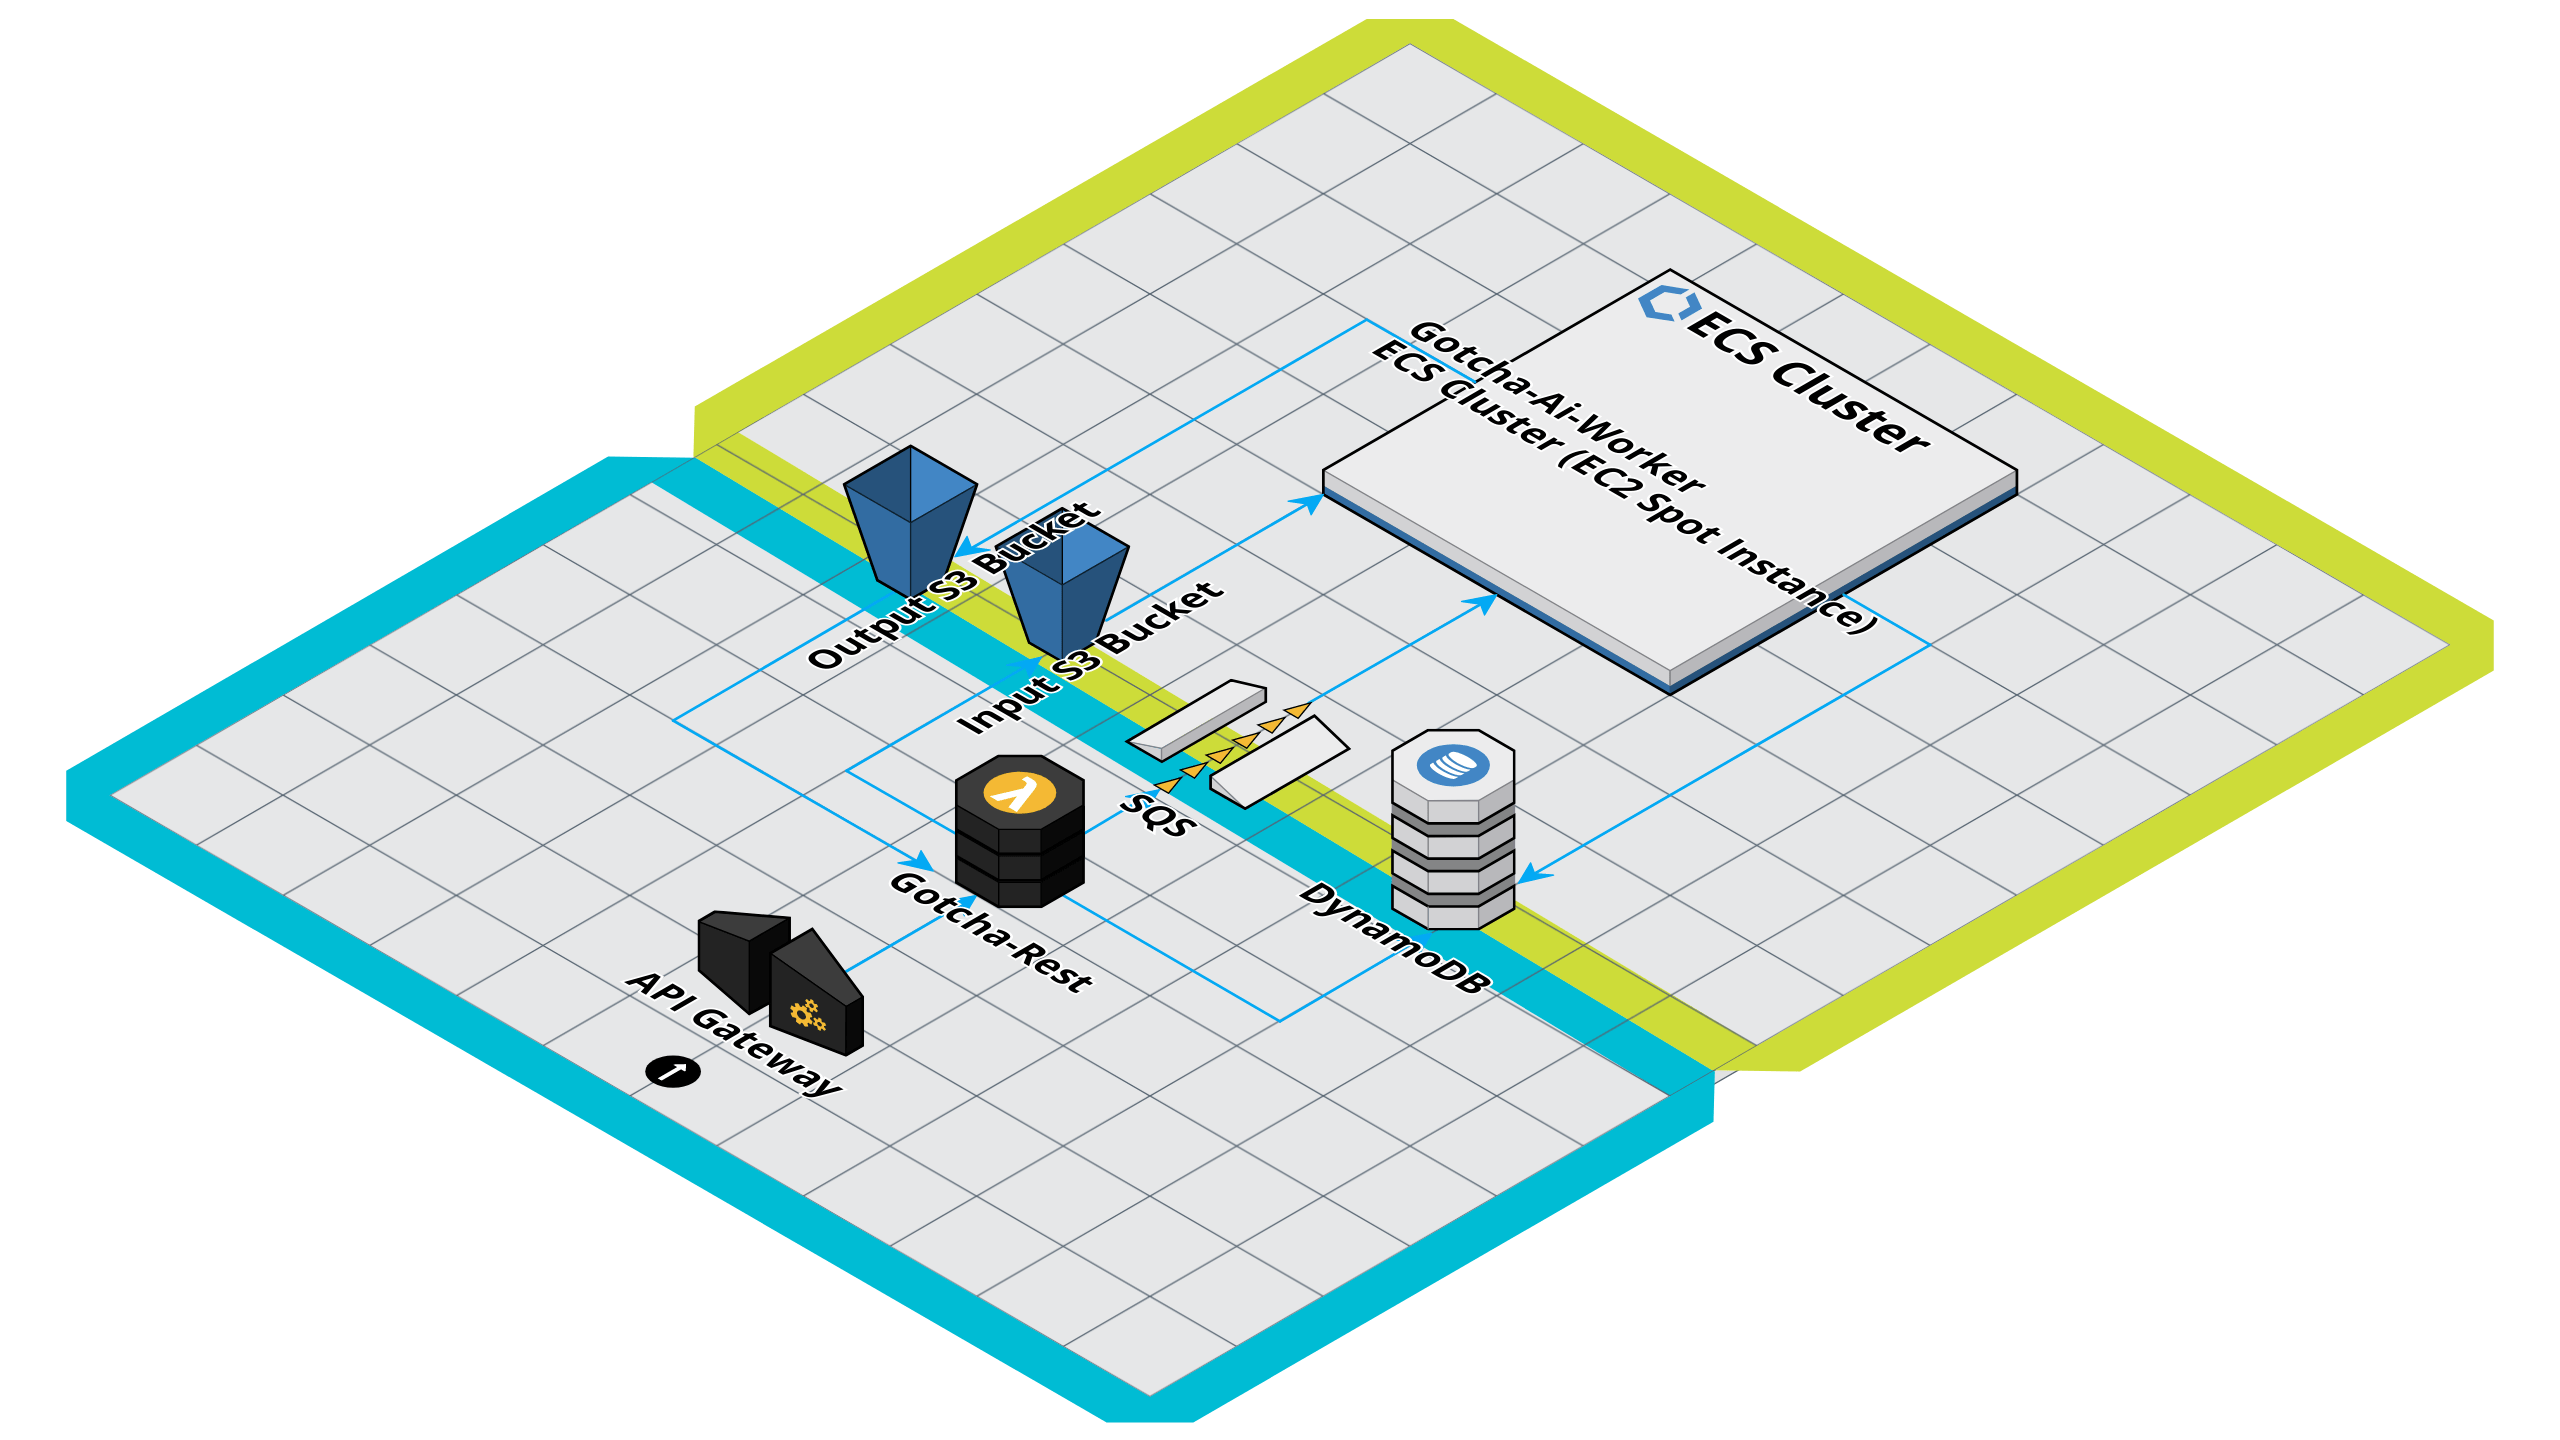
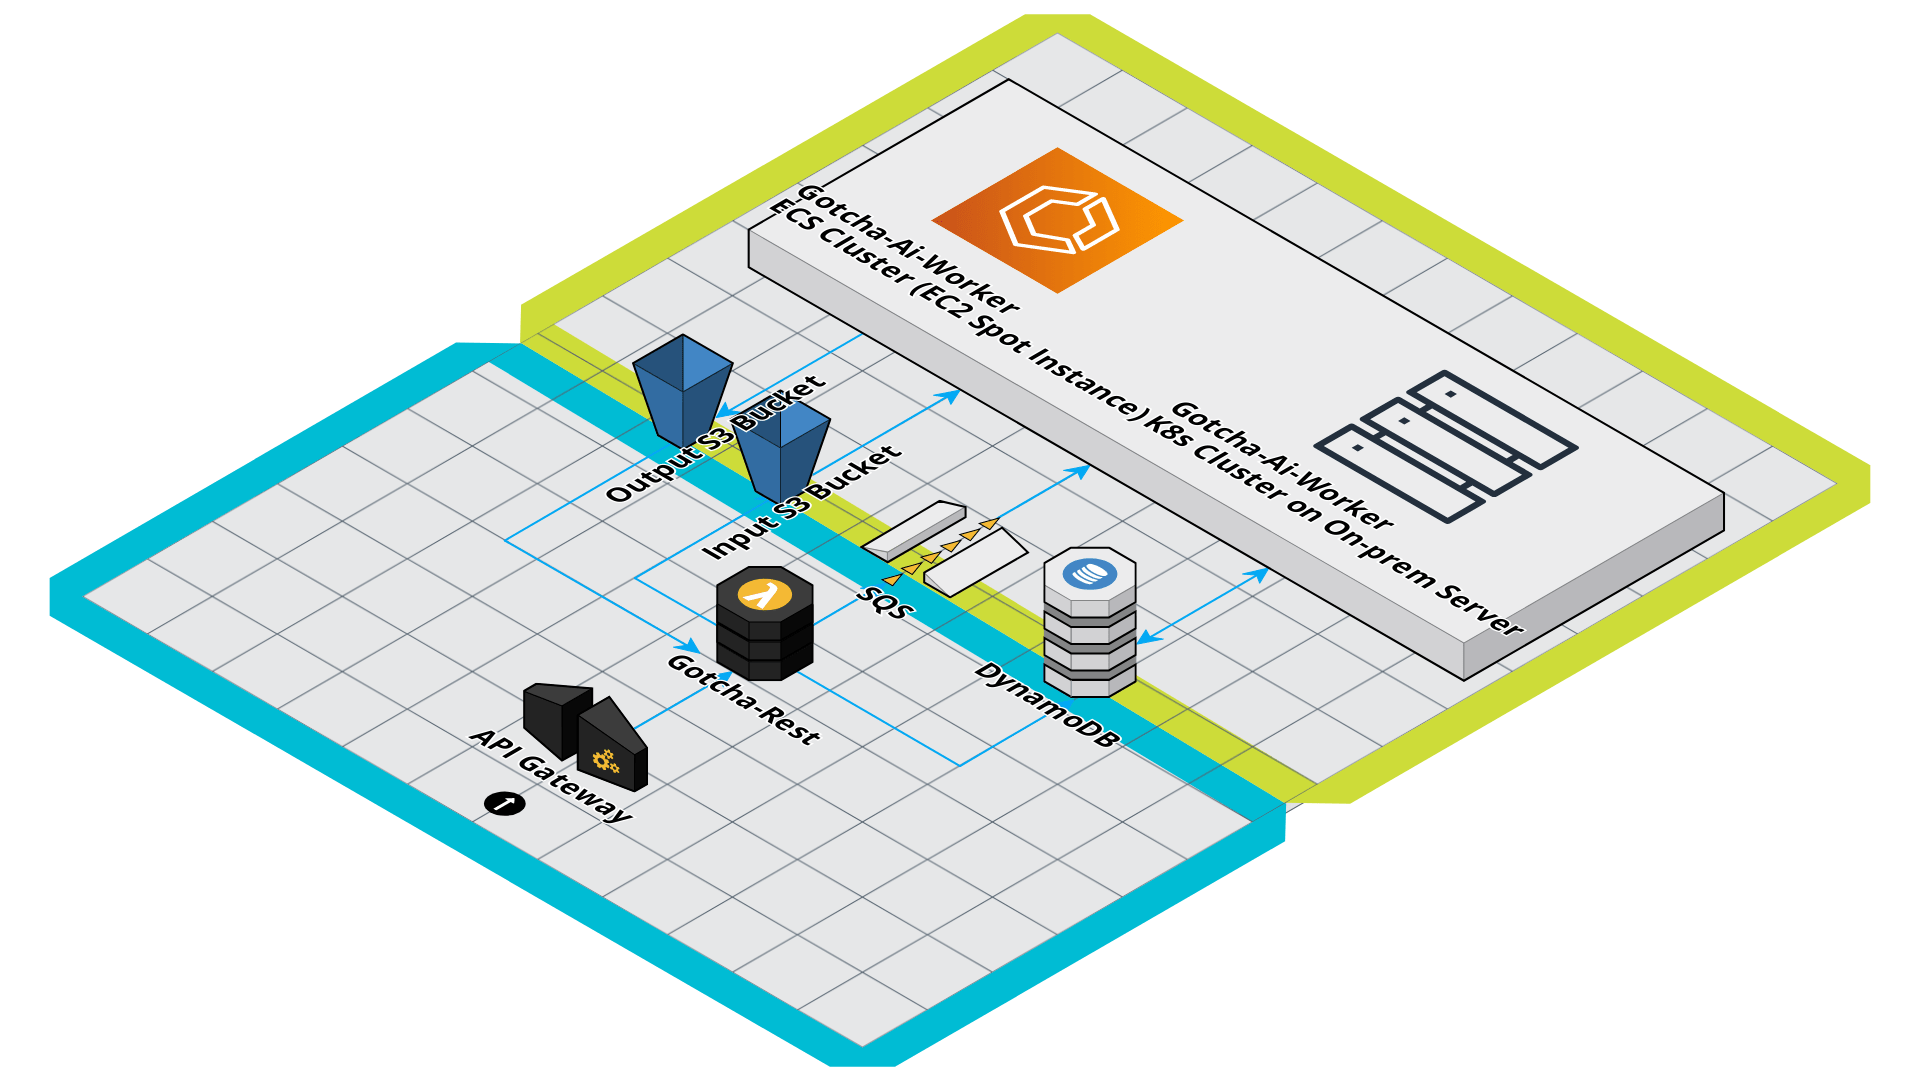
GOT-19: Set up k8s, updated doc

diff --git a/README.md b/README.md
@@ -49,6 +49,17 @@ docker-compose up dev
 3. On ECS, update task definition and service definition to use the new image.
 
 
+## To Deploy to local k8s cluster
+1. On k8s/k8s-services.yaml, update the .aws volume mount path to the expected path, update the image version if needed.
+2. Create the deployment
+```
+kubectl apply -f .\k8s-workloads.yaml
+```
+3. (Optional) create service so you can hit the health endpoint
+```
+kubectl apply -f .\k8s-services.yaml
+```
+
 ## Micronaut 3.7.3 Documentation
 
 - [User Guide](https://docs.micronaut.io/3.7.3/guide/index.html)
